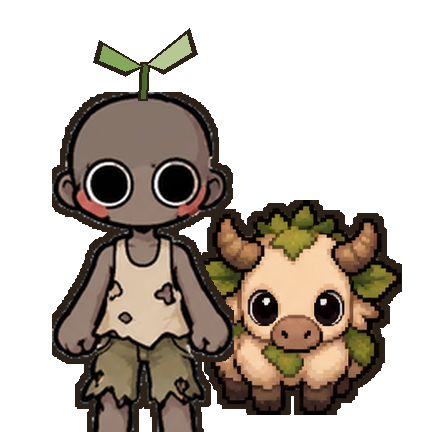
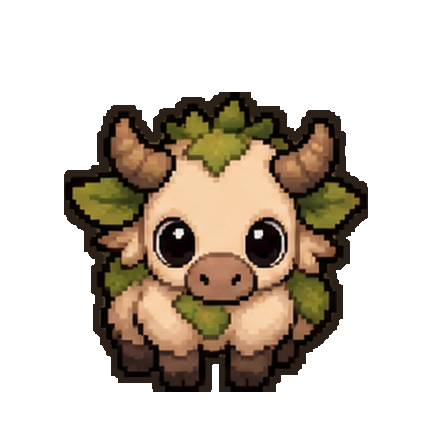
Ícone do app só com o Moombor
Claude-Session: https://claude.ai/code/session_01K8smMkd41S9KsmfWVPtWCG

diff --git a/tools/make_app_icon.py b/tools/make_app_icon.py
@@ -5,7 +5,7 @@ Gera o ícone do app a partir da arte do jogo.
 Saídas:
   icon.png                         512x512 (ícone do projeto e do APK)
   assets/app_icon/icon_192.png     192x192 (launcher Android)
-  assets/app_icon/foreground.png   432x432 (ícone adaptável: personagens, com margem segura)
+  assets/app_icon/foreground.png   432x432 (ícone adaptável: o Moombor, com margem segura)
   assets/app_icon/background.png   432x432 (ícone adaptável: fundo)
 
 Uso: python3 tools/make_app_icon.py
@@ -59,32 +59,14 @@ def outline(img, width=6, color=(43, 33, 24, 255)):
 
 
 def foreground():
+    """Só o Moombor, grande e centralizado (dentro da margem segura do ícone adaptável)."""
     img = Image.new("RGBA", (S, S), (0, 0, 0, 0))
-    # Moombor atrás, à direita
     moo_src = Image.open(os.path.join(ROOT, "assets", "source", "animals", "moombor.webp")).convert("RGBA")
     rows = find_frames(moo_src)
     moo = cut(moo_src, rows[0][0])
-    moo = moo.resize((round(moo.width * 215 / moo.height), 215), Image.LANCZOS)
-    img.alpha_composite(outline(moo, 5), (S - moo.width - 30, 200))
-    # personagem grande na frente (close: as pernas saem pela borda)
-    hero = Image.open(os.path.join(ROOT, "assets", "source", "base_body", "bald", "careca_1_frente.png")).convert("RGBA")
-    hero = hero.crop(hero.getbbox())
-    hero = hero.resize((round(hero.width * 400 / hero.height), 400), Image.LANCZOS)
-    hero = outline(hero, 5)
-    hx0, hy0 = 52, 92
-    img.alpha_composite(hero, (hx0, hy0))
-    # brotinho saindo do topo da cabeça
-    a = hero.getchannel("A")
-    cx = hero.width // 2
-    top = next(y for y in range(hero.height) if a.getpixel((cx, y)) > 0) + hy0
-    cx += hx0
-    d = ImageDraw.Draw(img)
-    d.line((cx, top + 8, cx + 2, top - 30), fill=hx("2B2118"), width=10)
-    d.line((cx, top + 6, cx + 2, top - 28), fill=hx("4C6A30"), width=5)
-    d.polygon([(cx, top - 26), (cx - 44, top - 52), (cx - 50, top - 30), (cx - 18, top - 16)], fill=hx("2B2118"))
-    d.polygon([(cx - 3, top - 26), (cx - 40, top - 47), (cx - 44, top - 32), (cx - 18, top - 21)], fill=hx("86A85A"))
-    d.polygon([(cx + 2, top - 28), (cx + 46, top - 64), (cx + 54, top - 38), (cx + 20, top - 18)], fill=hx("2B2118"))
-    d.polygon([(cx + 5, top - 28), (cx + 43, top - 58), (cx + 48, top - 40), (cx + 20, top - 23)], fill=hx("B6C995"))
+    moo = moo.resize((round(moo.width * 300 / moo.height), 300), Image.LANCZOS)
+    moo = outline(moo, 6)
+    img.alpha_composite(moo, ((S - moo.width) // 2, S - moo.height - 40))
     return img
 
 
